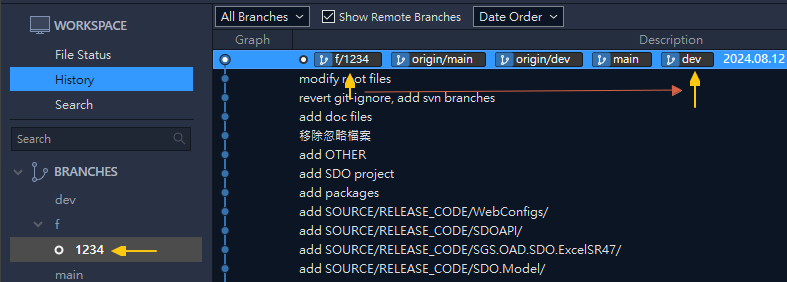
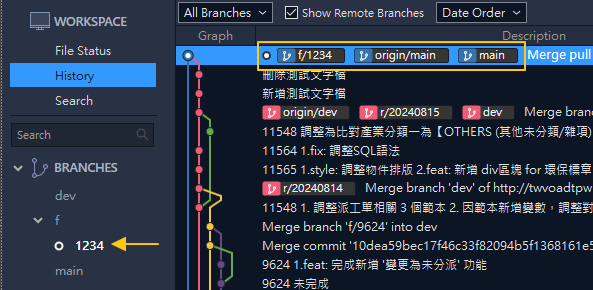
chore: Update lims2 daily update documentation and add flowchart

diff --git a/src/lims2/develop.md b/src/lims2/develop.md
@@ -1,9 +1,10 @@
-# 💻日常開發流程 Develop
+# 💻日常功能開發 Feature Develop
 
 - 描述 `PG` 日常開發功能流程
 - 首先要取得 `SA` 開立 `mantis單號`
-- 接著確認已經切換到起始分支 (通常是 `dev`)
-- 然後建立新分支，按上方工具列 Branch
+- 接著確認已經切換到開發起始分支 (必須乾淨穩定，例如 `main`)
+- 建立新分支，按 Sourcetree 上方工具列 Branch
+- 確認已切換到新分支，開始進行開發
 
 # 📊流程圖
 
@@ -13,21 +14,21 @@
 
 ![](../../asset/lims2/dev-create-branch.png)
 
-- ⚠注意目前分支是否為 `dev` (避免從開發中的分支長出分支)
+- ⚠注意目前分支是否為 `main` (或者其他穩定分支)
 - 輸入分支名稱，使用前綴 `f/` 加 `mantis單號`
 - 按下 Create Branch
 
 ![](../../asset/lims2/dev-create-branch-finish.png)
 
 - 分支建立完成時，會與其起始分支內容相同(版本相同)
-- 例如上圖 `f/1234` 和 `dev` 會在同一個 `node` 上
+- 例如上圖 `f/1234` 和 `main` 會在同一個節點 `node` 上
 - Sourcetree 左側也會出現分支，如果有前綴詞則會自動分類
 
 # 🛠完成功能開發 Finish Feature
 
 - 分支開好後，即可(在分支上)開始進行功能開發
 - 完成後記得 `add` 並 `commit`，同時撰寫 commit message
-- 下圖是一個完成功能的示範
+- 下圖是一個完成功能的釋例圖
 
 ![](../../asset/lims2/dev-branch-commit.png)
 
@@ -36,14 +37,14 @@
 
 # 🔄合併分支 Merge (Feature) Branch
 
-- 開發完畢需將修改併入 `dev`，以便更新到測試環境
+- ⚠開發完畢需將修改併入 `dev`，以便更新到測試環境
 - Git 並沒有併入 `merge into` 這種行為(指令)
-- 所以實際是先切換(checkout)到 `dev`，然後合併 `merge` 分支 `f/1234`
+- 所以實際是先切換 `checkout` 到 `dev`，然後合併 `merge` 分支 `f/1234`
 
 ![](../../asset/lims2/dev-switch-to-dev.png)
 
-- Sourcetree 左側選單點兩下 `dev` 即可切換分支，指令可用 `checkout` or `swtich`
-- 🚨務必注意切換前原本修改已經 `commit` 或者 add to `stash`
+- Sourcetree 左側選單點兩下 `dev` 即可切換分支，指令可用 `checkout` 或 `swtich`
+- 🚨注意切換前如有未完成修改請先 `commit` 或者加入 `stash`
 
 ![](../../asset/lims2/dev-merge-feature-branch.png)
 
@@ -55,7 +56,7 @@
 
 - 合併完成後，會看到 `dev` 已經與 `f/1234` 在同一個 `node`
 - 表示 `dev` 已包含 `f/1234` 修改內容
-- Sourcetree 會提示可進行 `push` (判斷 `dev` 與 `origin/dev` 有差距)
+- Sourcetree 會提示可進行 `push` (表示 `dev` 與 `origin/dev` 有版本差異)
 
 # 🚀推送更新 Push
 

diff --git a/src/lims2/weekly-update-after.md b/src/lims2/weekly-update-after.md
@@ -1,0 +1,14 @@
+# 每周更新之後 After Weekly Update
+
+- 每周更新之後，`main` 會更新測試過的修改，成為新的穩定分支
+- 手邊如有尚未完成的功能(分支)，建議併入新版本 `main` 進行同步
+- 一來可取得正式上線的程式版本內容，在最新穩定版本上開發
+- 再者如發生衝突可提早解決，避免累積過多版本差異，不易處理
+
+# 📊流程圖
+
+![](../../asset/lims-develop-after-weekly-update.svg)
+
+- 假設有一功能 `f/9999`，看起來就要開發非常久 :D
+- 在 `f/9999` 開發期間，其起始分支 `main` 已更新版本
+- 切換到 `f/9999`，合併 `merge` 新版本的 `main` 分支
